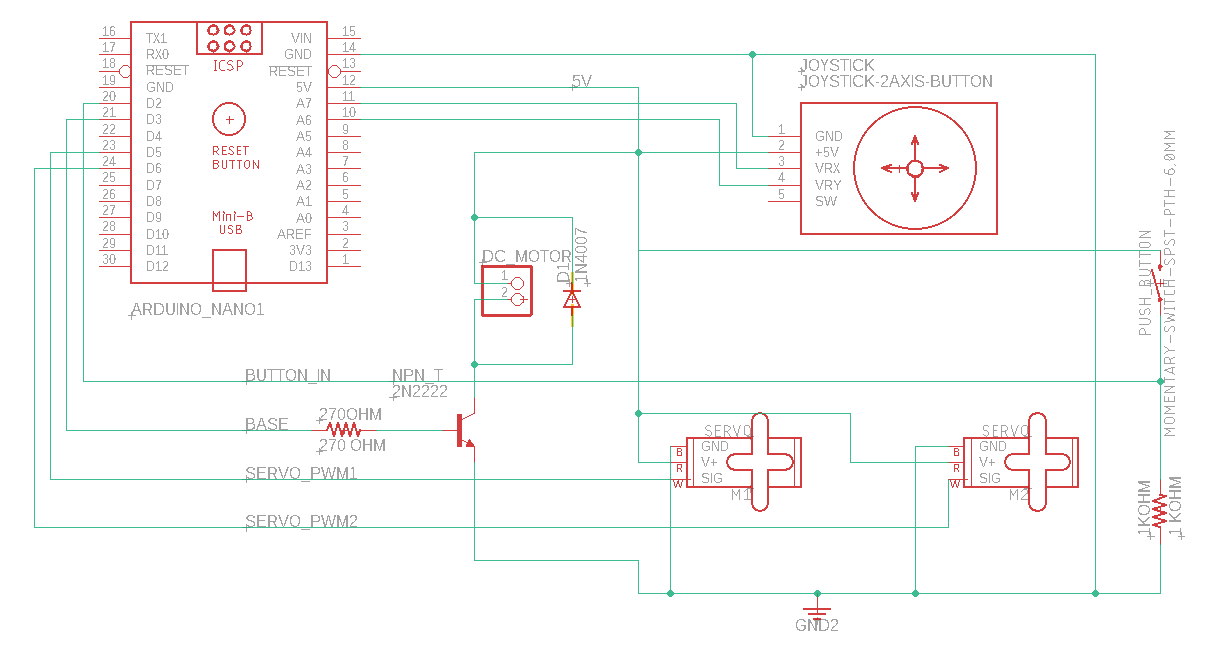
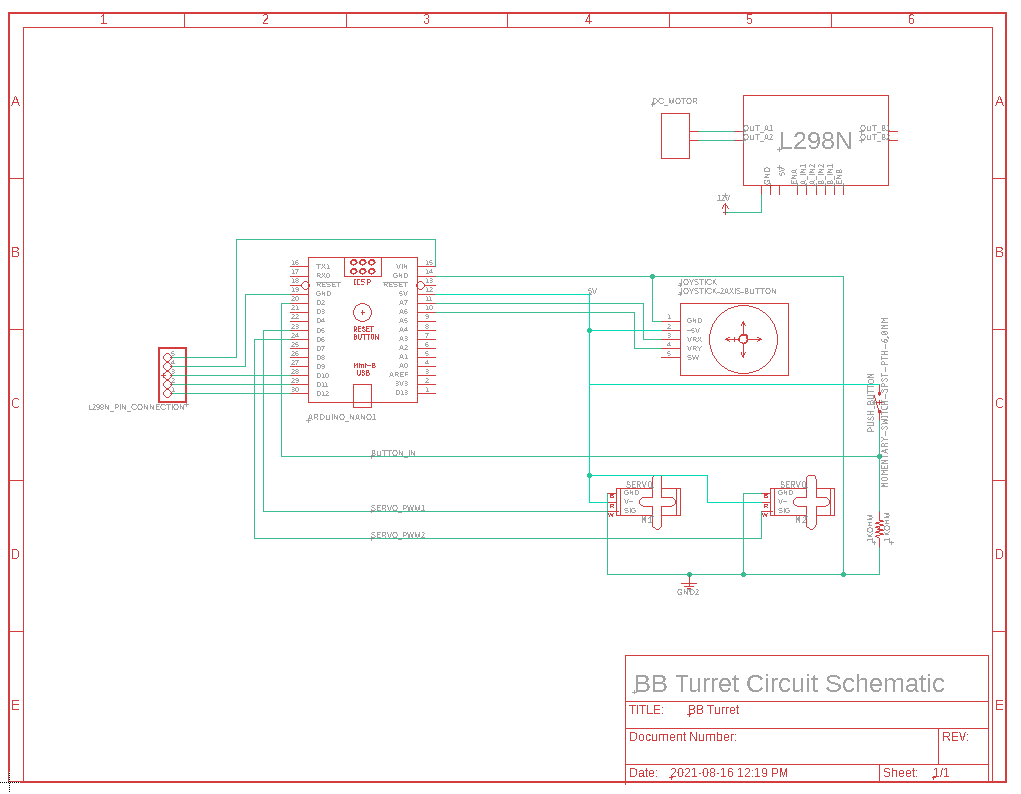
Updated README and images to reflect addition of L298N.

diff --git a/README.md b/README.md
@@ -2,14 +2,15 @@
 ## About
 The BB Turret is a project developed for [Zen Maker Lab](https://www.zenmakerlab.com/).
 
-The code found under [BB_Turret](https://github.com/hhenry01/Arduino-BB-Turret/blob/main/BB_Turret/BB_Turret.ino) controls the shooting and aiming functions of the turret. The two other folders separate the shooting and aiming funciontalities.
+The code found under [BB_Turret](https://github.com/hhenry01/Arduino-BB-Turret/blob/main/BB_Turret/BB_Turret.ino) controls the shooting and aiming functions of the turret.
 
 ## How it Works
 Full details surrounding the project belong to Zen Maker Lab. This README only describes the code and the circuit.
 ### Shooting
-![Motor Circuit](Images/Motor.png "Motor Circuit")
 
-When a button is pressed, the Arduino outputs a voltage to the transistor's base. With a resistor, this creates a current which supplies the motor. The diode is to prevent damage to the motor. The motor pulls a launcher using a gear, like a rack and pinion. The gear does not have teeth along its entire circumference, and so automatically releases the launcher forward. When it is released it hits a BB shooting it.
+When a button is pressed, the Arduino outputs two voltages to the L298N module in order to spin a motor. One of the input pins is set to *HIGH* while the other is set to *LOW*. For more information, see an [L298N schematic](https://www.handsontec.com/dataspecs/L298N%20Motor%20Driver.pdf).
+\
+The motor spins a gear in a rack and pinion system. The gear pushes the rack against a spring. The gear does not have teeth around its entire circumference, so the rack is eventually released and is propelled forward by a spring, hitting and shooting a projectile.
 
 ### Aiming
 ![Aiming Circuit](Images/Aiming.png "Aiming Circuit")
